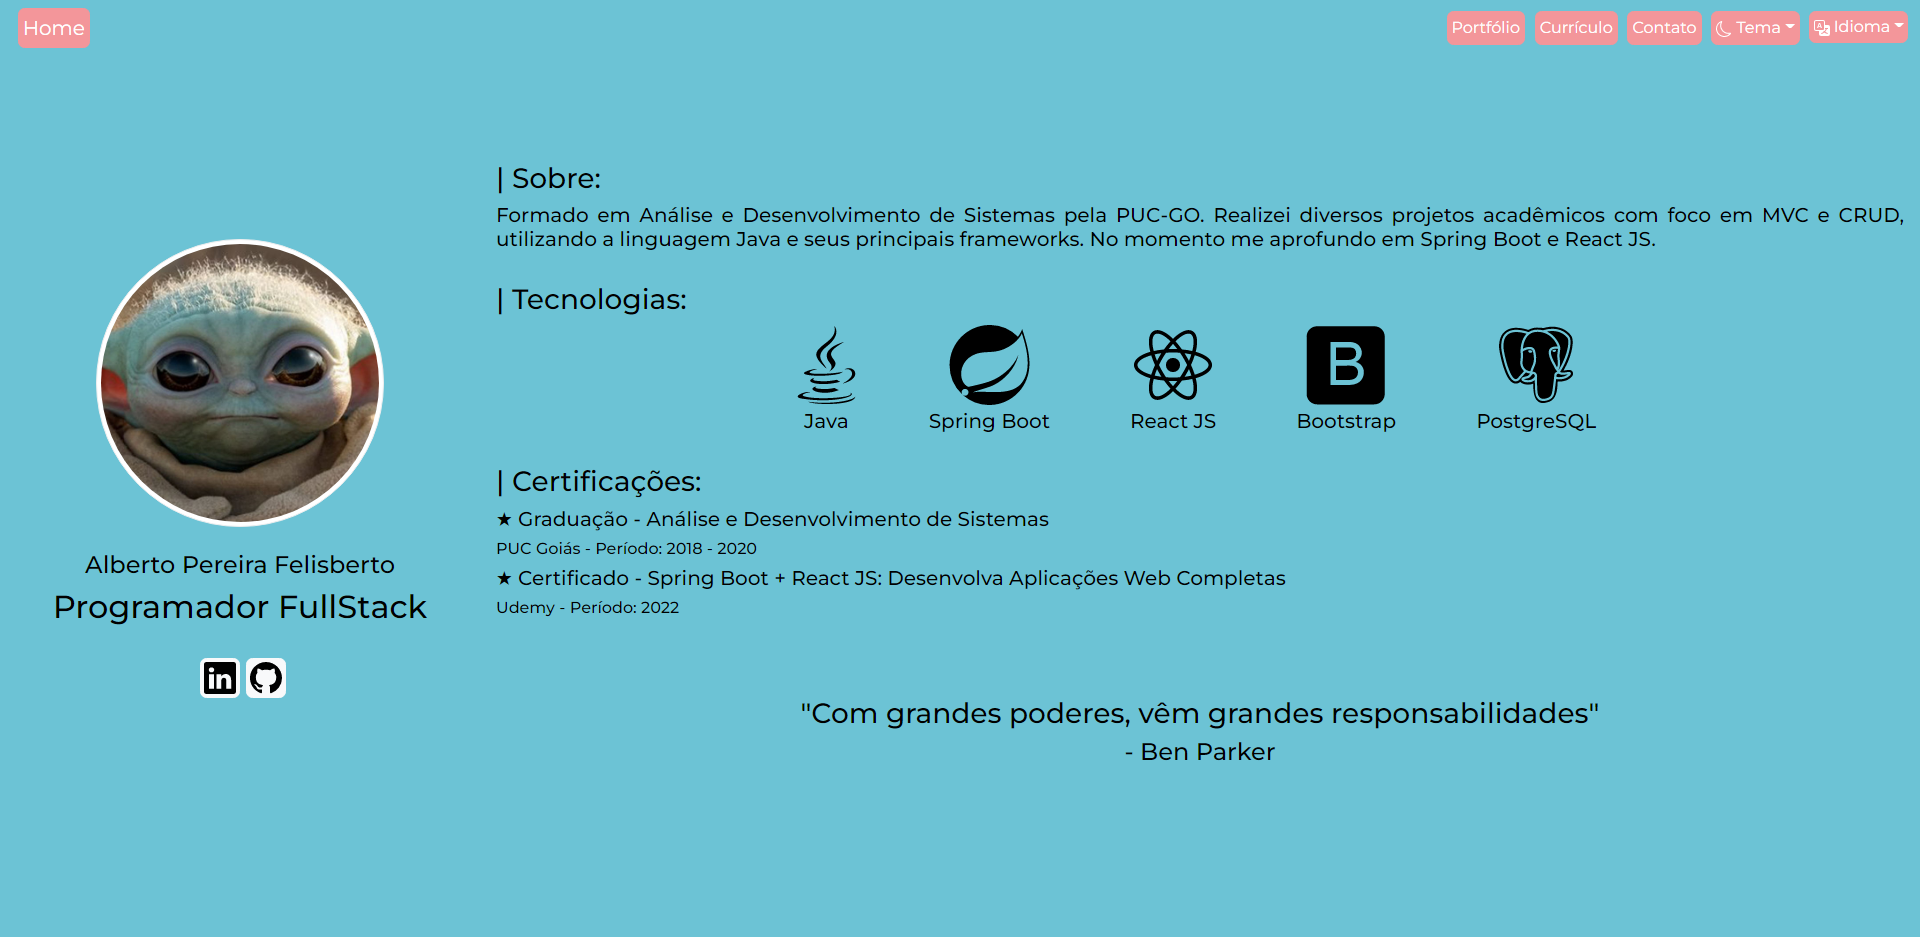
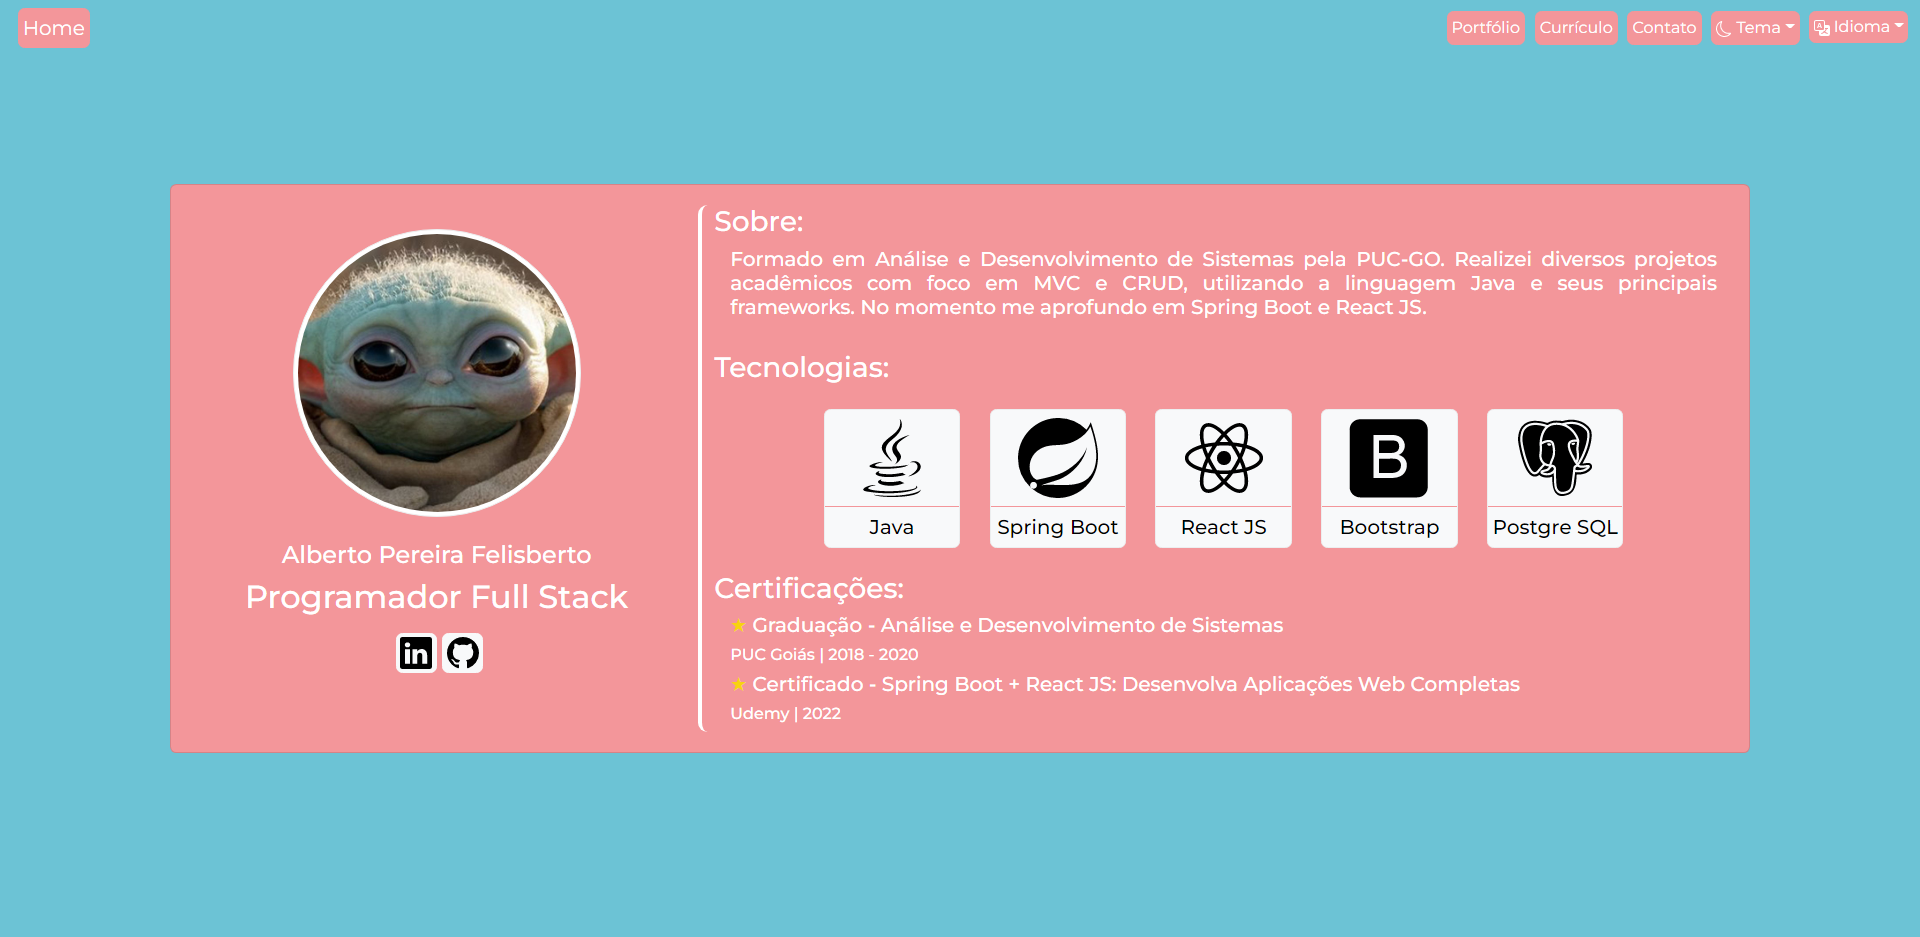
home
- completed home page refresh
- minor adjustments

* portfolio
- home screen print screen updated

diff --git a/src/views/home-2.js b/src/views/home-2.js
@@ -14,7 +14,8 @@ class Home2 extends React.Component{
                                 <div className="row">
                                     <div className="d-flex flex-column col-md-4 align-items-center ">
                                         <img src={baby_yoda} width="288" height="288" 
-                                            className="img-thumbnail rounded-circle custom-image-margin mt-4" alt="Imagem de perfil">
+                                            className="img-thumbnail rounded-circle custom-image-margin mt-4" alt="Imagem de perfil" 
+                                            title="Imagem de perfil">
                                         </img>
                                         <h4 className="custom-color mt-4 text-white">Alberto Pereira Felisberto</h4>
                                         <h2 className="custom-color text-white">Programador Full Stack</h2>
@@ -39,16 +40,32 @@ class Home2 extends React.Component{
                                                 utilizando a linguagem Java e seus principais frameworks. 
                                                 No momento me aprofundo em Spring Boot e React JS.</h5>
                                         </div>
-                                        <h3 className="custom-title-color text-start mt-3 mb-3">Tecnologias:</h3>
+                                        <h3 className="custom-title-color text-start mt-4 mb-3">Tecnologias:</h3>
                                         <div className="d-flex flex-md-row flex-column justify-content-evenly align-items-center 
-                                                text-center tecnology-session text-white">
-                                            <Java/>
-                                            <Spring/>
-                                            <ReactIcon/>
-                                            <Bootstrap/>
-                                            <Postgre/>
+                                                text-center tecnology-session text-white mt-4">
+                                            <div className="col border bg-light rounded-2" style={{flexGrow:'0'}}>
+                                                <Java/>
+                                                <h5 className="custom-text-color mt-2 pt-2 border-top border-1">Java</h5>
+                                            </div>
+                                            <div className="col border bg-light rounded-2" style={{flexGrow:'0'}}>
+                                                <Spring/>
+                                                <h5 className="custom-text-color mt-2 pt-2 border-top border-1">Spring Boot</h5>
+                                            </div>
+                                            <div className="col border bg-light rounded-2" style={{flexGrow:'0'}}>
+                                                <ReactIcon/>
+                                                <h5 className="custom-text-color mt-2 pt-2 border-top border-1">React JS</h5>
+                                            </div>
+                                            <div className="col border bg-light rounded-2" style={{flexGrow:'0'}}>
+                                                <Bootstrap/>
+                                                <h5 className="custom-text-color mt-2 pt-2 border-top border-1">Bootstrap</h5>
+                                            </div>
+                                            <div className="col border bg-light rounded-2" style={{flexGrow:'0'}}>
+                                                <Postgre/>
+                                                <h5 className="custom-text-color mt-2 pt-2 border-top border-1">Postgre SQL</h5>
+                                            </div>
+                                            
                                         </div>
-                                        <h3 className="custom-title-color mt-3">Certificações:</h3>
+                                        <h3 className="custom-title-color mt-4">Certificações:</h3>
                                         <h5 className="custom-color text-white custom-first-letter ps-3 pe-3">★ Graduação - Análise e Desenvolvimento de Sistemas</h5>
                                         <h6 className="custom-color text-white ps-3 pe-3">PUC Goiás | 2018 - 2020</h6>
                                         <h5 className="custom-color text-white custom-first-letter ps-3 pe-3">★ Certificado - Spring Boot + React JS: Desenvolva Aplicações Web Completas</h5>

diff --git a/src/components/icons.js b/src/components/icons.js
@@ -1,7 +1,5 @@
 import download_icon from '../img/icons/download_icon.png'
 
-import BootstrapIcon from "../img/icons/bootstrap-icon.svg"
-
 export function Github(){
     return(
         <svg xmlns="http://www.w3.org/2000/svg" width="32" height="32" fill="currentColor" className="bi bi-github custom-image-color" viewBox="0 0 16 16">
@@ -20,76 +18,50 @@ export function Linkedin(){
 
 export function Java(){
     return(
-        <div className="row">
-            <div className="row g-0 ">
-                <img src="https://cdn.jsdelivr.net/gh/devicons/devicon/icons/java/java-plain.svg"
-                    width="80" height="80" 
-                    className="custom-image-color" alt=""/>
-            </div>
-            <div className="row g-0">
-                <h5 className="">Java</h5>
-            </div>
-        </div>
+        <img src="https://cdn.jsdelivr.net/gh/devicons/devicon/icons/java/java-plain.svg"
+             width="80" height="80" 
+             className="custom-image-color" alt="" style={{marginTop:'0.5rem', marginLeft:'1.7rem', marginRight:'1.7rem'}}
+             alt="Logotipo do Java" title="Java"/>
     )
 }
 
 export function Spring(){
     return(
-        <div className="row">
-            <div className="row g-0">
-                <img src="https://cdn.jsdelivr.net/gh/devicons/devicon/icons/spring/spring-plain.svg" 
-                    height="80" 
-                    className="" alt=""/>
-            </div> 
-            <div className="row g-0">
-                <h5 className="">Spring Boot</h5>
-            </div>
-        </div>
+        <img src="https://cdn.jsdelivr.net/gh/devicons/devicon/icons/spring/spring-plain.svg" 
+             width="80" height="80" 
+             className="" alt="" style={{marginTop:'0.5rem', marginLeft:'1.7rem', marginRight:'1.7rem'}}
+             alt="Logotipo do Spring Boot" title="Spring Boot"/>
+            
     )
 }
 
 export function ReactIcon(){
     return(
-        <div className="row">
-            <div className="row g-0">
-                <img src="https://cdn.jsdelivr.net/gh/devicons/devicon/icons/react/react-original.svg" 
-                    width="80" height="80" 
-                    className="custom-image-color" alt=""/>
-            </div> 
-            <div className="row g-0">
-                <h5 className="custom-color mt-1">React JS</h5>
-            </div>
-        </div>
+        <img src="https://cdn.jsdelivr.net/gh/devicons/devicon/icons/react/react-original.svg" 
+             width="80" height="80" 
+             className="custom-image-color" alt="" style={{marginTop:'0.5rem', marginLeft:'1.7rem', marginRight:'1.7rem'}}
+             alt="Logotipo do React JS" title="React JS"/>
+            
     )
 }
 
 export function Bootstrap(){
     return(
-        <div className="row">
-            <div className="row g-0">
-                <img src="https://cdn.jsdelivr.net/gh/devicons/devicon/icons/bootstrap/bootstrap-plain.svg"
-                    width="80" height="80" 
-                    className="custom-image-color" alt=""/>
-            </div> 
-            <div className="row g-0">
-                <h5 className="custom-color mt-1">Bootstrap</h5>
-            </div>
-        </div>
+        <img src="https://cdn.jsdelivr.net/gh/devicons/devicon/icons/bootstrap/bootstrap-plain.svg"
+             width="80" height="80" 
+             className="custom-image-color" style={{marginTop:'0.5rem', marginLeft:'1.7rem', marginRight:'1.7rem'}}
+             alt="Logotipo do Bootstrap" title="Bootstrap"/>
+            
     )
 }
 
 export function Postgre(){
     return(
-        <div className="row">
-            <div className="row g-0">
-                <img src="https://cdn.jsdelivr.net/gh/devicons/devicon/icons/postgresql/postgresql-plain.svg" 
-                    width="80" height="80" 
-                    className="custom-image-color" alt=""/>
-            </div> 
-            <div className="row g-0">
-                <h5 className="custom-color mt-1">PostgreSQL</h5>
-            </div>
-        </div>
+        <img src="https://cdn.jsdelivr.net/gh/devicons/devicon/icons/postgresql/postgresql-plain.svg" 
+             width="80" height="80" 
+             className="custom-image-color" alt="" style={{marginTop:'0.5rem', marginLeft:'1.7rem', marginRight:'1.7rem'}}
+             alt="Logotipo do Postgre SQL" title="Postgre SQL"/>
+        
     )
 }
 

diff --git a/src/views/portfolio.js b/src/views/portfolio.js
@@ -114,14 +114,14 @@ class Portfolio extends React.Component{
                                     <h5 className="text-white">&emsp;&emsp;&emsp;Botão para escolher os idiomas do website. 
                                             Português e inglês estão disponíveis.</h5>
                                     <h5 className="text-white">&emsp;🎨 Front-End:</h5>
-                                    <h5 className="text-white">&emsp;&emsp;&emsp;- React JS</h5>
-                                    <h5 className="text-white">&emsp;&emsp;&emsp;- Bootstrap</h5>
+                                    <h5 className="text-white">&emsp;&emsp;&emsp;- React JS.</h5>
+                                    <h5 className="text-white">&emsp;&emsp;&emsp;- Bootstrap.</h5>
                                     <a href="https://github.com/Alberto-Pereira/Portfolio" style={{textDecoration:'none'}} 
-                                       target="_blank">
+                                       target="_blank" title="Clique para acessar" alt="Link de acesso ao projeto no github">
                                         <h4 className="text-white mt-4">💼 Github</h4>
                                     </a>                                   
                                     <a href="https://portfolio-alberto-pereira.herokuapp.com/" style={{textDecoration:'none'}} 
-                                       target="_blank">
+                                       target="_blank" title="Clique para acessar" alt="Link de acesso ao projeto no heroku. Você pode testar a aplicação online.">
                                         <h4 className="text-white mt-4">✅ Portfólio</h4>
                                     </a>
                                 </div>

diff --git a/src/css/custom.css b/src/css/custom.css
@@ -50,8 +50,8 @@
 
 @media(min-width: 1600px){
     .tecnology-session{
-        margin-left: 8rem !important;
-        margin-right: 8rem !important;
+        margin-left: 5rem !important;
+        margin-right: 5rem !important;
     }
 }
 
@@ -156,4 +156,5 @@
 
 .custom-text-color{
     color: black !important;
+    border-color: #F3969A !important;
 }
